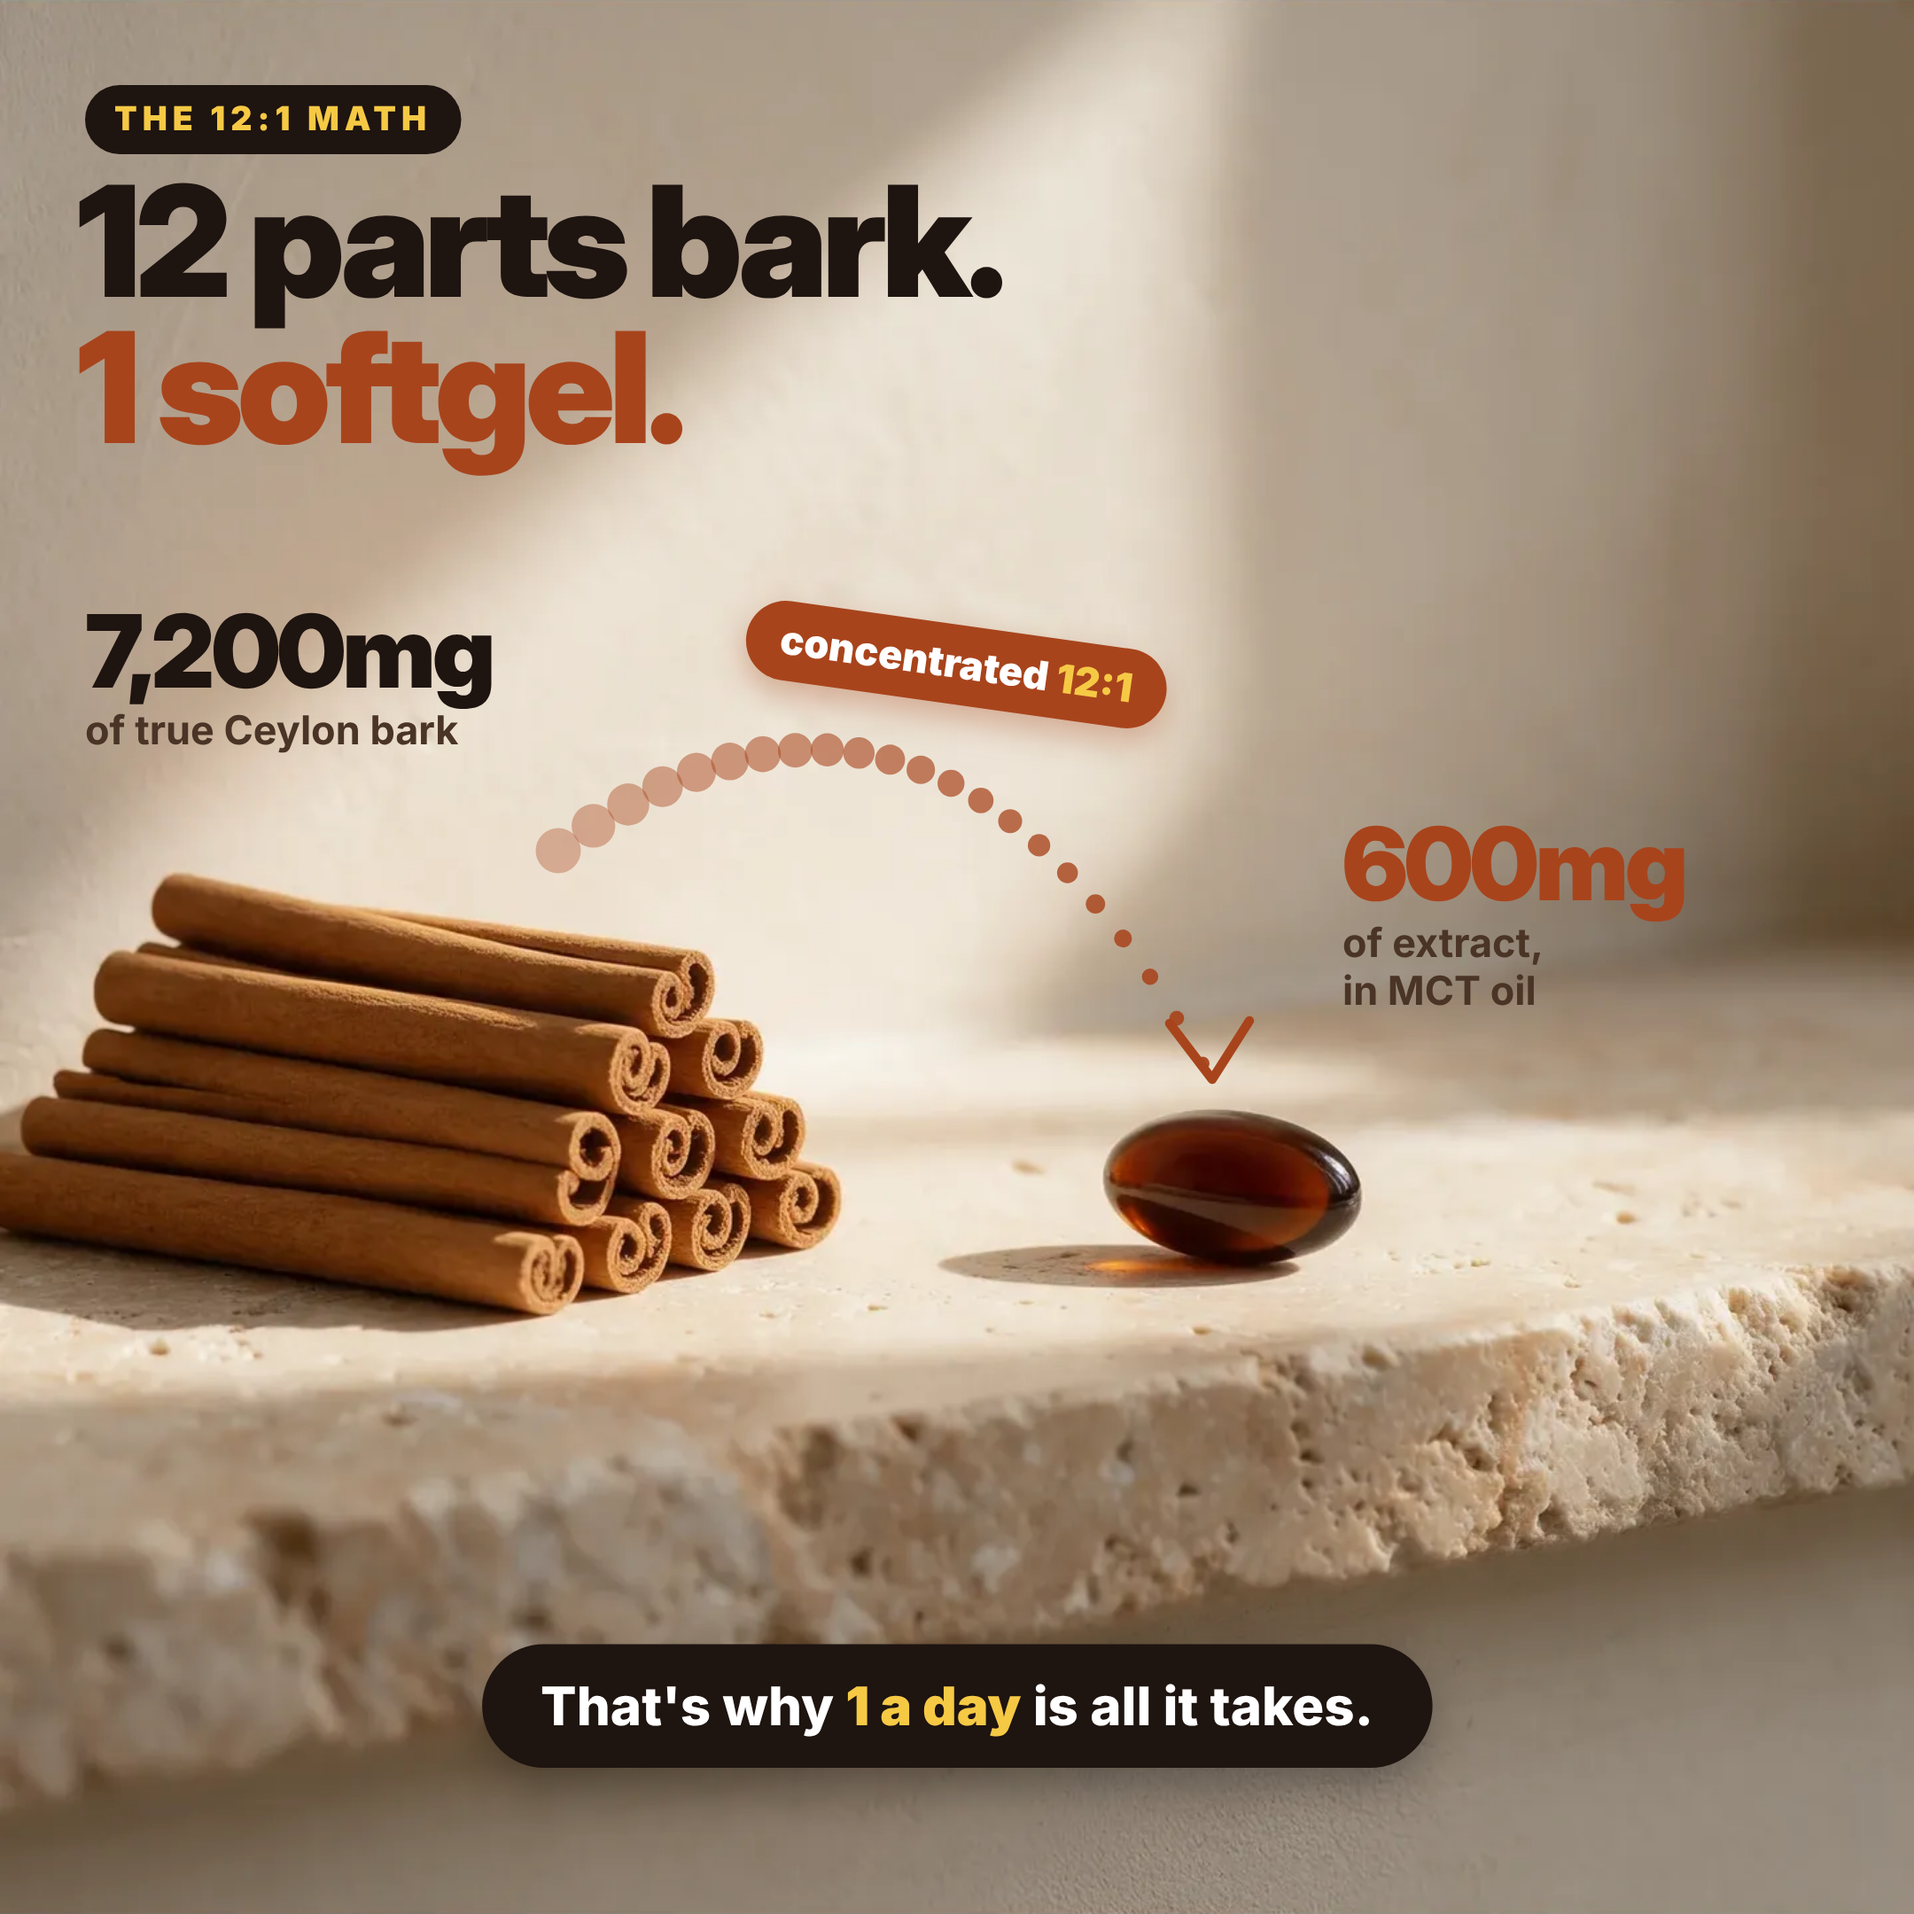
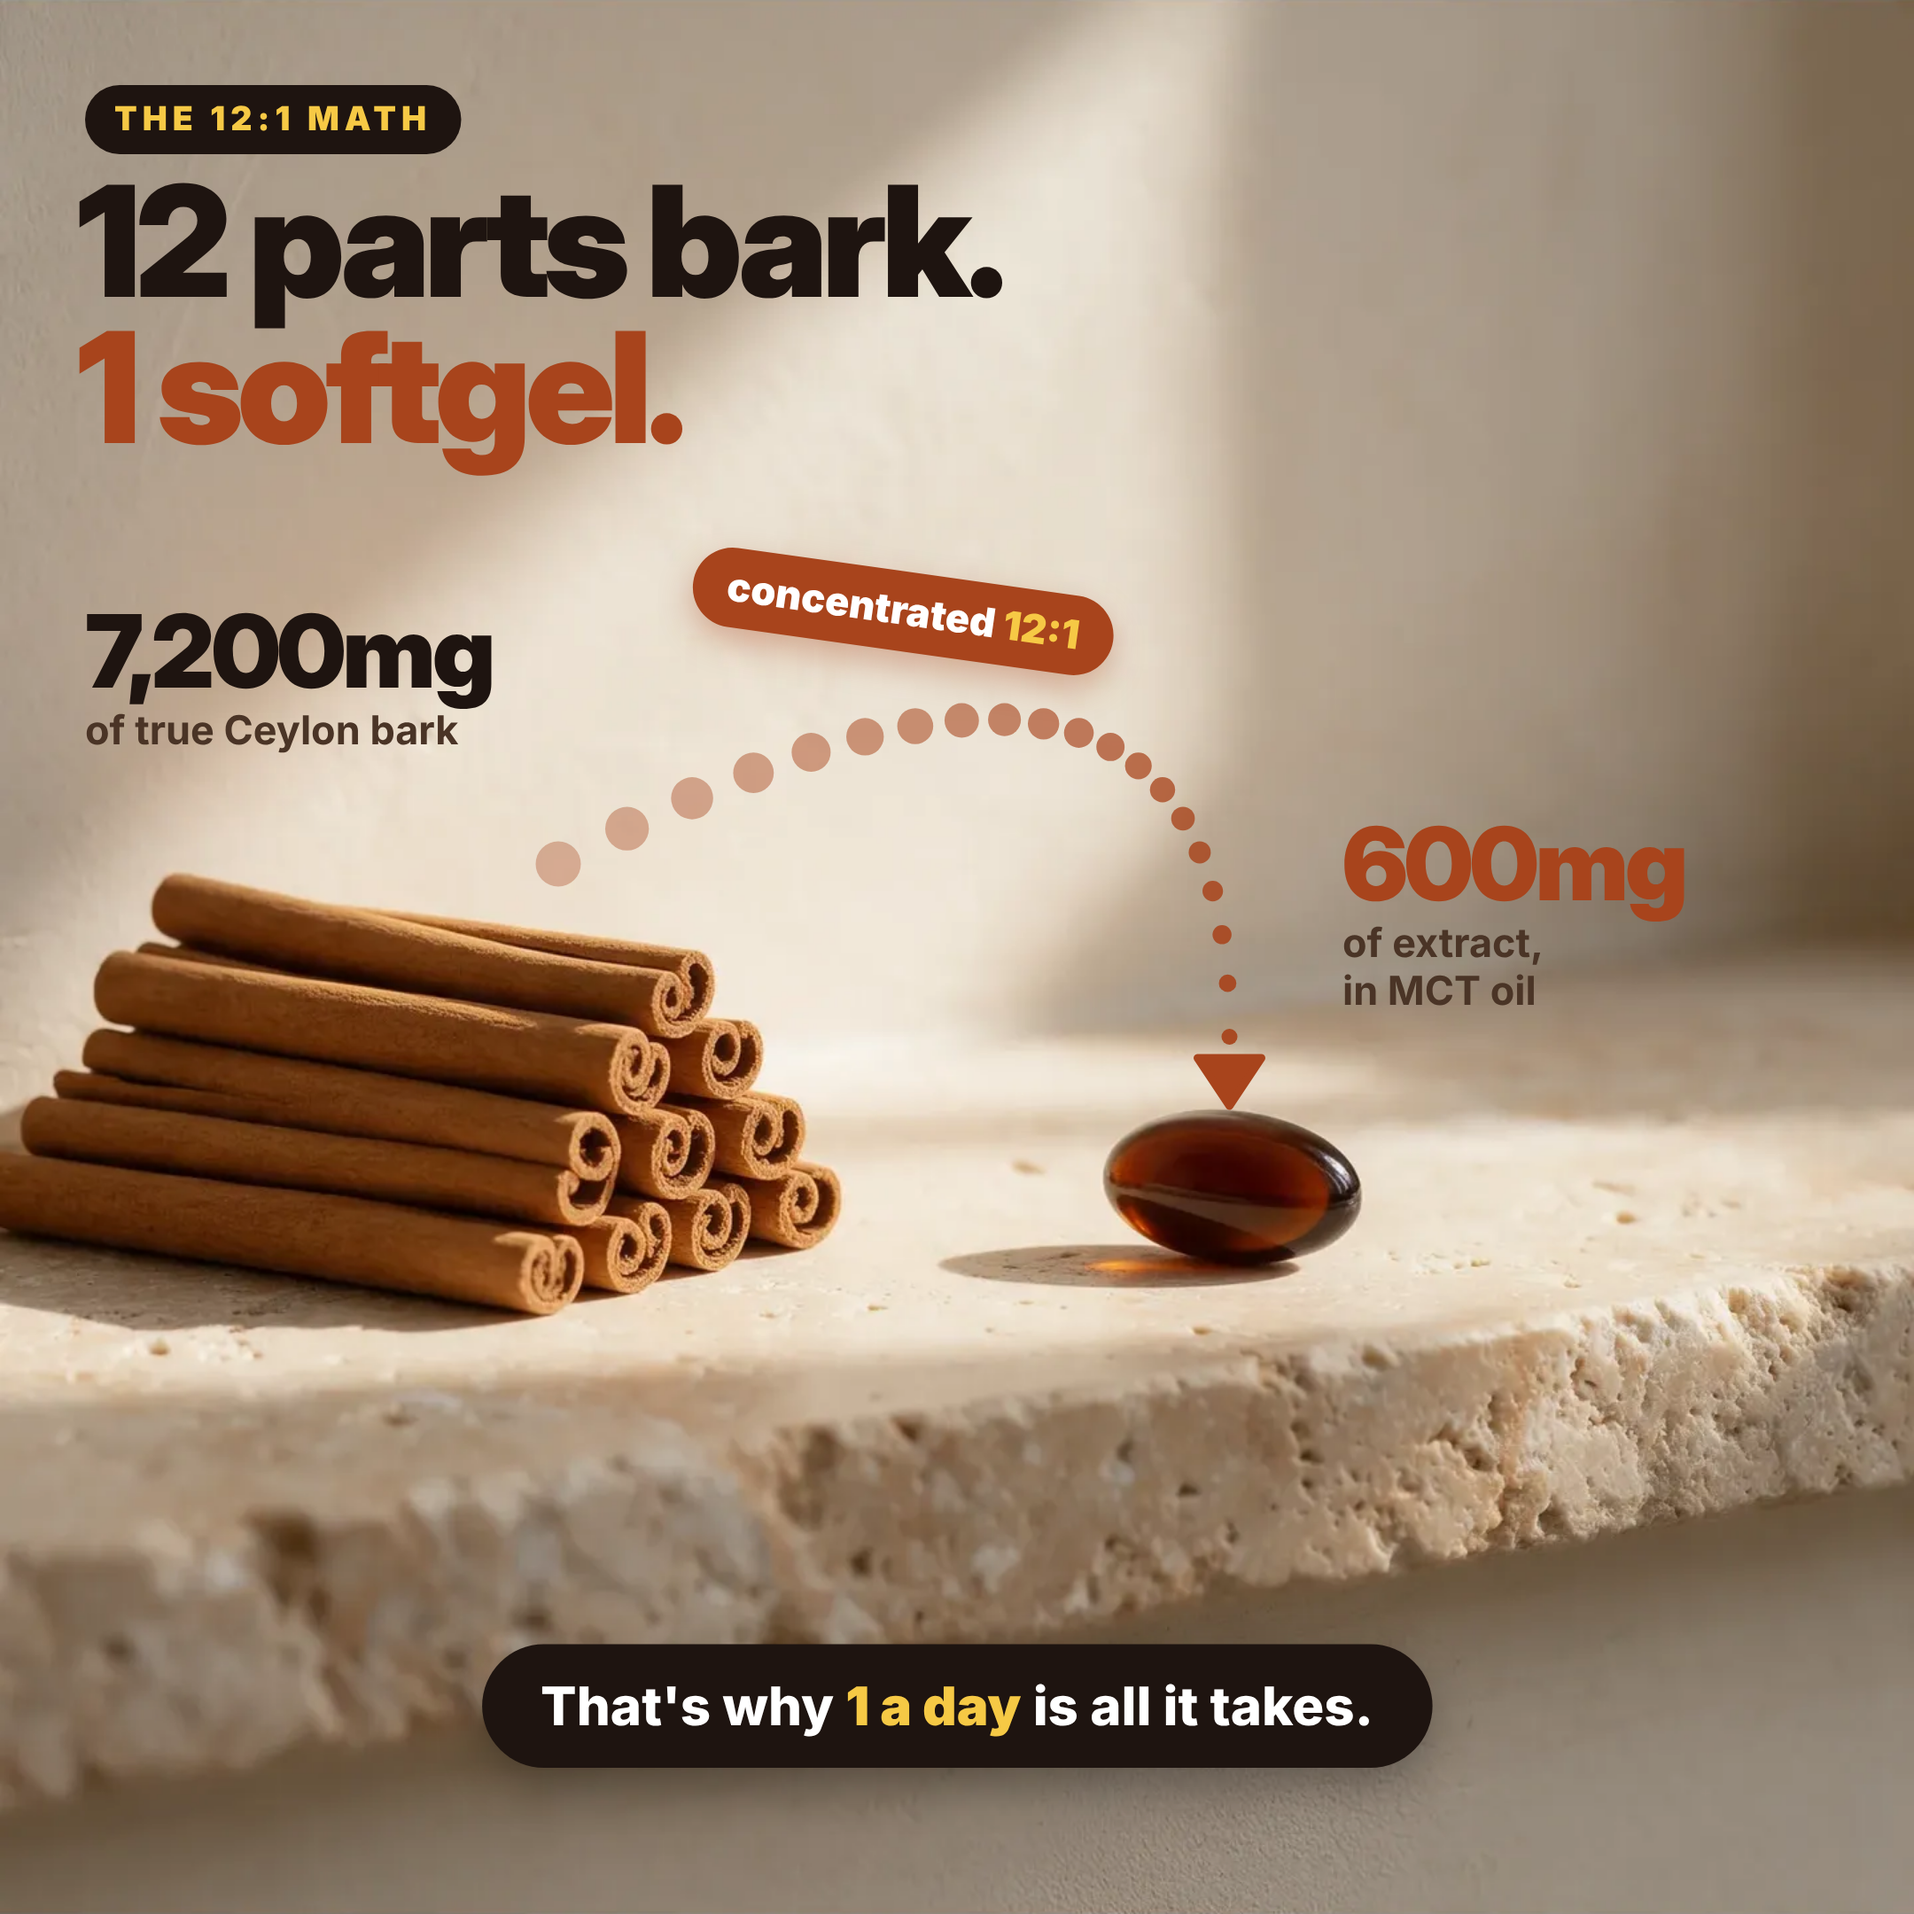
Cinnora: fix arrow on 12:1 image
Claude-Session: https://claude.ai/code/session_01WXdKv4Lmy6DFabBeRvSUZr

diff --git a/ceylon-cinnamon/hero/ratio5.html b/ceylon-cinnamon/hero/ratio5.html
@@ -7,7 +7,7 @@
 .call{position:absolute}
 .call .n{font-family:'Inter Display';font-weight:900;font-size:76px;letter-spacing:-2.5px;line-height:1}
 .call .t{font-weight:700;font-size:30px;color:#4A3426;margin-top:4px;line-height:1.2}
-.pill{position:absolute;left:560px;top:470px;background:#A8441C;color:#fff;border-radius:999px;padding:12px 26px;font-weight:900;font-size:30px;transform:rotate(8deg);box-shadow:0 10px 24px rgba(168,68,28,.35);white-space:nowrap}
+.pill{position:absolute;left:520px;top:430px;background:#A8441C;color:#fff;border-radius:999px;padding:12px 26px;font-weight:900;font-size:30px;transform:rotate(8deg);box-shadow:0 10px 24px rgba(168,68,28,.35);white-space:nowrap}
 .pill span{color:#F6C945}
 .bot{position:absolute;left:50%;bottom:110px;transform:translateX(-50%);background:#1E1410;color:#fff;border-radius:999px;padding:22px 44px;font-weight:800;font-size:40px;white-space:nowrap;box-shadow:0 14px 34px rgba(0,0,0,.3)}
 .bot b{color:#F6C945}
@@ -23,11 +23,11 @@ svg{position:absolute;inset:0}
 <script>
 // cinnamon "grains" flowing from the quills into the softgel, shrinking as they condense
 const g=document.getElementById('g');let s='';
-const P0=[420,640],P1=[700,430],P2=[905,800];const N=22;
+const P0=[420,650],P1=[925,380],P2=[925,780];const N=20;
 for(let i=0;i<N;i++){const t=i/(N-1),u=1-t;
 const x=u*u*P0[0]+2*u*t*P1[0]+t*t*P2[0],y=u*u*P0[1]+2*u*t*P1[1]+t*t*P2[1];
-const r=17-12*t;s+=`<circle cx="${x}" cy="${y}" r="${r}" fill="#A8441C" opacity="${0.35+0.6*t}"/>`;}
-s+=`<path d="M880 770 L912 812 L940 768" fill="none" stroke="#A8441C" stroke-width="7" stroke-linecap="round" stroke-linejoin="round"/>`;
+const r=17-11*t;s+=`<circle cx="${x}" cy="${y}" r="${r}" fill="#A8441C" opacity="${0.35+0.6*t}"/>`;}
+s+=`<polygon points="901,796 949,796 925,832" fill="#A8441C" stroke="#A8441C" stroke-width="6" stroke-linejoin="round"/>`;
 g.innerHTML=s;
 </script>
 </div></body></html>
